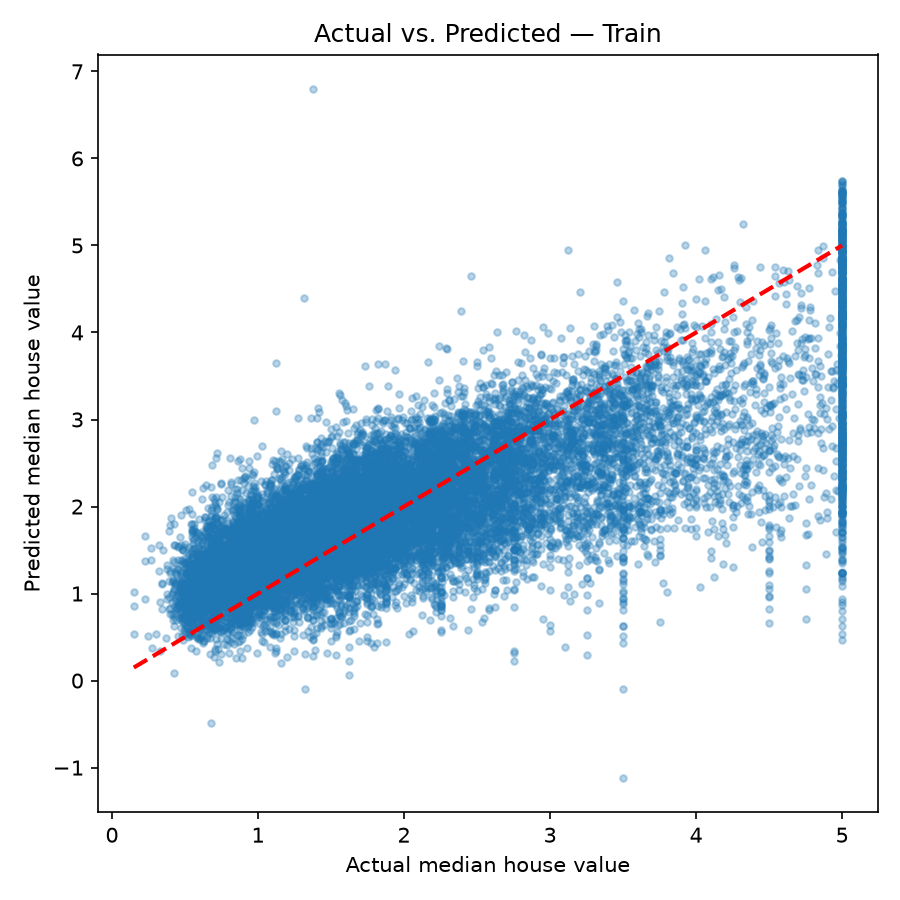
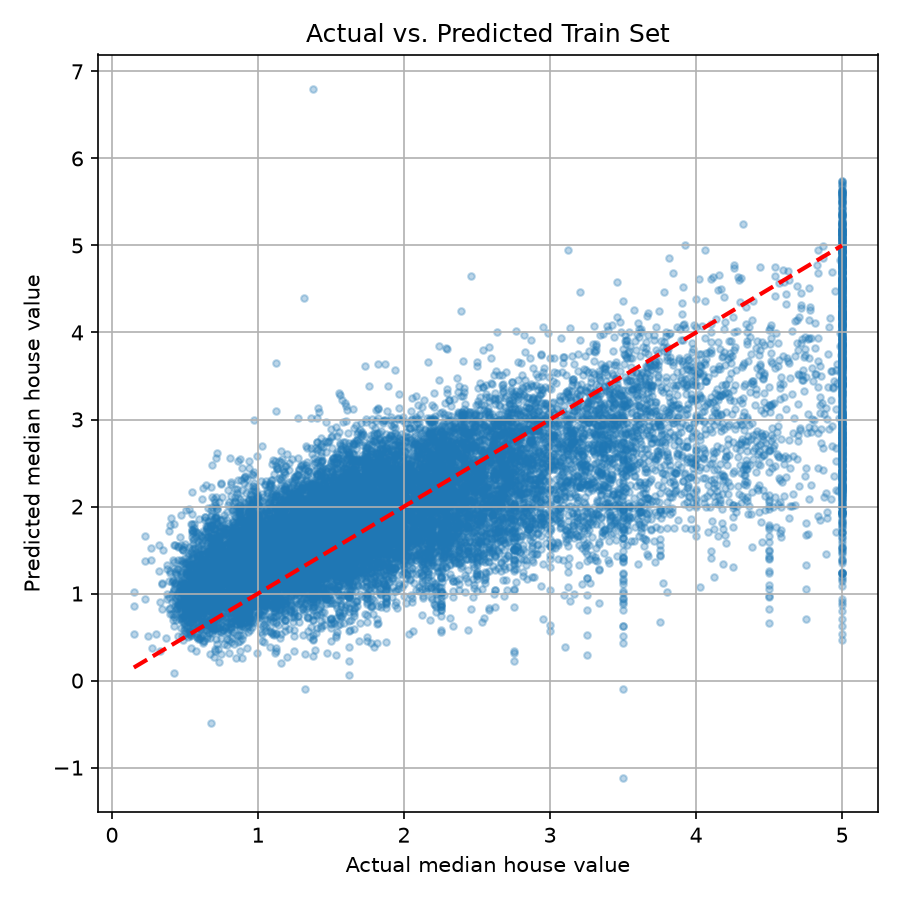
Add regression metrics

diff --git a/src/a02.py b/src/a02.py
@@ -1,7 +1,12 @@
 from sklearn.datasets import fetch_california_housing
 from sklearn.model_selection import train_test_split
 from sklearn.neural_network import MLPRegressor
+from sklearn.metrics import mean_absolute_error, mean_squared_error, r2_score
+import numpy as np
+import os
+import matplotlib.pyplot as plt
 import pandas as pd
+import seaborn as sns
 
 # Load California Housing dataset
 housing = fetch_california_housing(as_frame=True)
@@ -40,11 +45,6 @@ mlp_regressor = MLPRegressor(
 # Train the model
 mlp_regressor.fit(X_train, y_train)
 print("MLPRegressor model trained successfully with early stopping.")
-
-
-
-import os
-import matplotlib.pyplot as plt
  
 # Create predictions on the training set
 y_train_pred = mlp_regressor.predict(X_train)
@@ -62,12 +62,15 @@ plt.plot(
 ) 
 plt.xlabel ("Actual median house value")
 plt.ylabel("Predicted median house value")
-plt.title("Actual vs. Predicted \u2014 Train")
+plt.title("Actual vs. Predicted Train Set")
+plt.grid(True)
 plt.tight_layout()
 plt.savefig("figures/train_actual_vs_pred.png", dpi=150)
 plt.close()
 
 print("Saved figures/train_actual_vs_pred.png")
+
+# Create predictions on the test set
 y_test_pred = mlp_regressor.predict(X_test)
 
 plt.figure(figsize=(6, 6))
@@ -80,29 +83,15 @@ plt.plot(
 )
 plt.xlabel("Actual median house value")
 plt.ylabel("Predicted median house value")
-plt.title("Actual vs. Predicted \u2014 Test")
+plt.title("Actual vs. Predicted Test Set")
+plt.grid(True)
 plt.tight_layout()
 plt.savefig("figures/test_actual_vs_pred.png", dpi=150)
 plt.close()
 
 print("Saved figures/test_actual_vs_pred.png")
 
-#Residual plot for the test set
-residuals = y_test - test_pred
-plt.figure(figsize=(6, 6))
-plt.scatter(test_pred, residuals, alpha=0.3, s=10, color="green")
-plt.axhline(y=0, color="r", linestyle="--", linewidth=2)
-plt.xlabel("Predicted median house value")
-plt.ylabel("Residuals(Actual - Predicted)")
-plt.title("Residuals \u2014 Test")
-plt.tight_layout()
-plt.savefig("figures/test_residuals.png", dpi=150)
-plt.close()
-print("Saved figures/test_residuals.png")
-
-from sklearn.metrics import mean_absolute_error, mean_squared_error, r2_score
-import numpy as np
-
+# Metrics Evaluation
 # --- Evaluate Training Set Performance ---
 print("\n--- Training Set Metrics ---")
 mae_train = mean_absolute_error(y_train, y_train_pred)
@@ -126,3 +115,48 @@ print(f"Mean Absolute Error (MAE): {mae_test:.4f}")
 print(f"Mean Squared Error (MSE): {mse_test:.4f}")
 print(f"Root Mean Squared Error (RMSE): {rmse_test:.4f}")
 print(f"R-squared (R2 Score): {r2_test:.4f}")
+
+# Save metrics to a text file
+# Define the output directory for metrics
+metrics_output_dir = 'metrics'
+os.makedirs(metrics_output_dir, exist_ok=True)
+
+# Prepare the metrics string to be saved
+metrics_content = f"""
+--- Training Set Metrics ---
+Mean Absolute Error (MAE): {mae_train:.4f}
+Mean Squared Error (MSE): {mse_train:.4f}
+Root Mean Squared Error (RMSE): {rmse_train:.4f}
+R-squared (R2 Score): {r2_train:.4f}
+
+--- Test Set Metrics ---
+Mean Absolute Error (MAE): {mae_test:.4f}
+Mean Squared Error (MSE): {mse_test:.4f}
+Root Mean Squared Error (RMSE): {rmse_test:.4f}
+R-squared (R2 Score): {r2_test:.4f}
+"""
+
+# Define the file path
+metrics_file_path = os.path.join(metrics_output_dir, 'regression_metrics.txt')
+
+# Write the metrics to the file
+with open(metrics_file_path, 'w') as f:
+    f.write(metrics_content)
+
+print(f"Regression metrics saved successfully to '{metrics_file_path}'")
+
+# Residuals
+# Residual plot for the test set
+residuals = y_test - y_test_pred
+plt.figure(figsize=(6, 6))
+plt.scatter(y_test_pred, residuals, alpha=0.3, s=10, color="green")
+plt.grid(True)
+plt.axhline(y=0, color="r", linestyle="--", linewidth=2)
+plt.xlabel("Predicted median house value")
+plt.ylabel("Residuals(Actual - Predicted)")
+plt.title("Residuals plot for Test Set")
+plt.grid(True)
+plt.tight_layout()
+plt.savefig("figures/test_residuals.png", dpi=150)
+plt.close()
+print("Saved figures/test_residuals.png")
